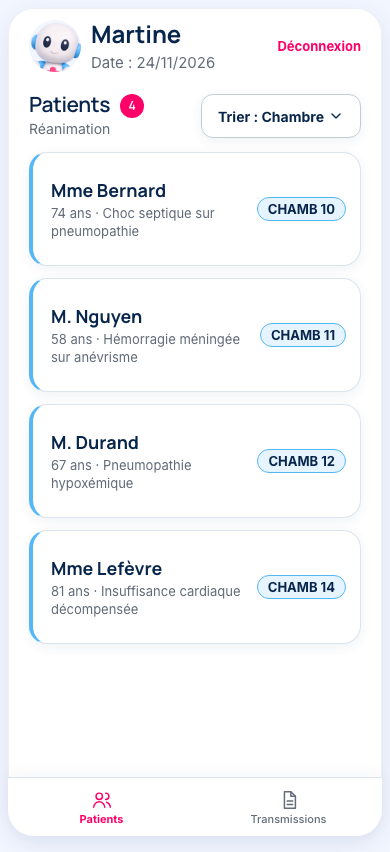
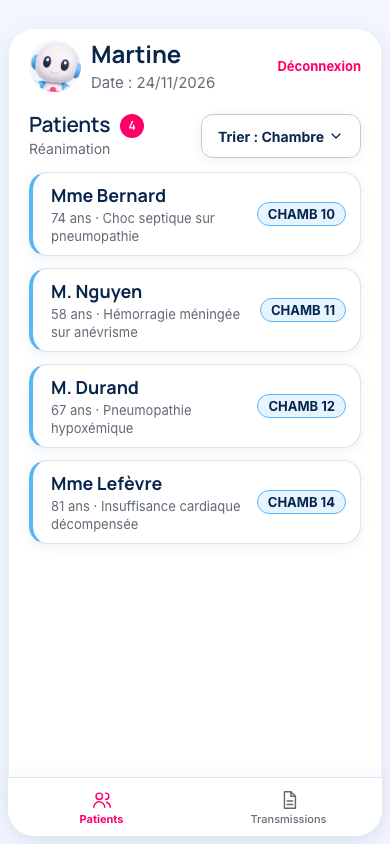
fix(mobile): resserrer les cartes patients

diff --git a/e2e/proto/parcours.spec.ts b/e2e/proto/parcours.spec.ts
@@ -179,6 +179,23 @@ test('la liste est le service de réa, sans le service de chirurgie', async ({ p
   await captureResponsive(page, testInfo.outputPath('design-patients-mobile.png'), 390, true);
   await captureResponsive(page, testInfo.outputPath('design-patients-desktop.png'), 1440, true);
   await page.setViewportSize({ width: 390, height: 844 });
+  const firstPatient = await page
+    .locator('.prow')
+    .first()
+    .evaluate((card) => {
+      const content = card.querySelector('.prow-open');
+      if (!content) throw new Error('Contenu de la carte patient absent');
+      const rect = card.getBoundingClientRect();
+      const style = getComputedStyle(content);
+      return {
+        height: rect.height,
+        paddingTop: style.paddingTop,
+        paddingBottom: style.paddingBottom,
+      };
+    });
+  expect(firstPatient.height).toBeLessThanOrEqual(84);
+  expect(firstPatient.paddingTop).toBe('10px');
+  expect(firstPatient.paddingBottom).toBe('10px');
   for (const name of SURGERY) await expect(page.getByText(name)).toHaveCount(0);
 });
 

diff --git a/prototypes/bino/css/styles.css b/prototypes/bino/css/styles.css
@@ -1470,7 +1470,7 @@ h2 .count {
   align-items: center;
   gap: 8px;
   padding: 0 14px 0 0;
-  min-height: 76px;
+  min-height: 72px;
   box-shadow: inset 4px 0 0 var(--bar, var(--sky));
 }
 .prow-open {
@@ -1480,7 +1480,7 @@ h2 .count {
   align-items: center;
   gap: 10px;
   align-self: stretch;
-  padding: 14px 0 14px 18px;
+  padding: 10px 0 10px 18px;
   border: 0;
   background: none;
   font: inherit;

diff --git a/prototypes/bino/css/design.css b/prototypes/bino/css/design.css
@@ -141,15 +141,15 @@ select:focus-visible {
 }
 
 .prow {
-  min-height: 78px;
-  padding-block: 11px;
+  min-height: 72px;
+  padding-block: 0;
   border-radius: var(--bino-radius-md);
   border-left: 4px solid var(--bino-blue);
 }
 
 .prow-open {
-  padding-top: 14px;
-  padding-bottom: 14px;
+  padding-top: 10px;
+  padding-bottom: 10px;
 }
 
 .room-chip {
